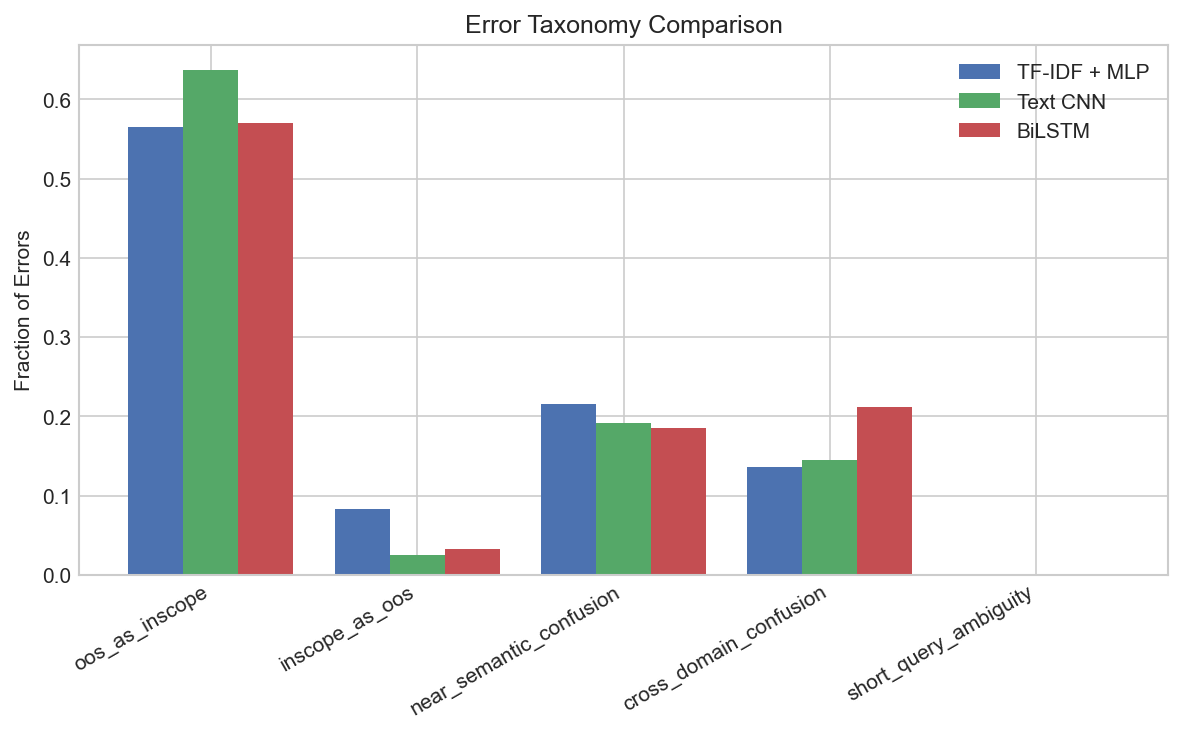
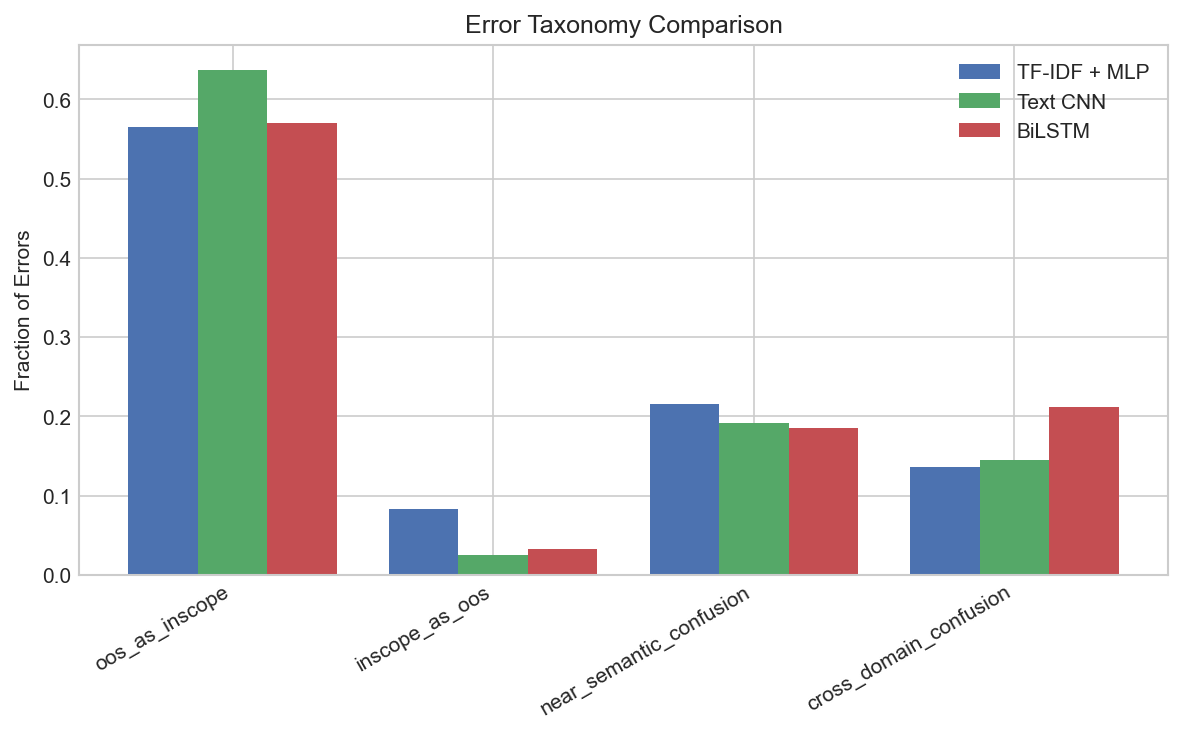
Omit short-query ambiguity from taxonomy comparison figure
Hide the short-query ambiguity bucket from the grouped taxonomy comparison because it is only tracked as a secondary tag, and add a regression test to keep the plotted categories aligned with the primary-category summary.

diff --git a/tests/test_analysis_pipeline.py b/tests/test_analysis_pipeline.py
@@ -258,6 +258,78 @@ def _patch_for_analysis(tmp_path: Path):
 
 
 # ---------------------------------------------------------------------------
+# TestTaxonomySummaryFigure
+# ---------------------------------------------------------------------------
+
+
+class TestTaxonomySummaryFigure:
+    def test_figure_omits_short_query_ambiguity_bucket(self, tmp_path: Path) -> None:
+        """Keep the taxonomy summary intact while hiding the short-query bar."""
+        from src.analysis.taxonomy import generate_taxonomy_summary
+
+        captured_plot: dict[str, Any] = {}
+        total_count = sum(range(1, len(ErrorCategory) + 1))
+
+        def _model_dir(model_id: ModelID) -> Path:
+            return tmp_path / "outputs" / str(model_id)
+
+        def _capture_plot(
+            group_labels: list[str],
+            series: dict[str, list[float]],
+            ylabel: str,
+            title: str,
+            out_path: Path,
+            **_: Any,
+        ) -> None:
+            captured_plot["group_labels"] = list(group_labels)
+            captured_plot["series"] = {label: list(values) for label, values in series.items()}
+            captured_plot["ylabel"] = ylabel
+            captured_plot["title"] = title
+            out_path.parent.mkdir(parents=True, exist_ok=True)
+            out_path.write_bytes(b"test-figure")
+
+        per_model_taxonomy: dict[str, dict[str, Any]] = {}
+        for model_id in ModelID:
+            categories: dict[ErrorCategory, dict[str, float | int]] = {}
+            for category_index, category in enumerate(ErrorCategory, start=1):
+                categories[category] = {
+                    "count": category_index,
+                    "fraction_of_errors": category_index / total_count,
+                    "fraction_of_test_set": category_index / 100.0,
+                }
+            per_model_taxonomy[str(model_id)] = {"categories": categories}
+
+        patches = [
+            patch("src.analysis.utils.PROJECT_ROOT", tmp_path),
+            patch("src.analysis.utils.SHARED_DIR", tmp_path / "outputs" / "shared"),
+            patch("src.analysis.utils.model_output_dir", side_effect=_model_dir),
+            patch("src.analysis.taxonomy.plot_grouped_bar", side_effect=_capture_plot),
+        ]
+        for active_patch in patches:
+            active_patch.start()
+        try:
+            generate_taxonomy_summary(list(ModelID), per_model_taxonomy)
+        finally:
+            for active_patch in patches:
+                active_patch.stop()
+
+        expected_group_labels = [
+            category.value for category in ErrorCategory if category != ErrorCategory.SHORT_QUERY_AMBIGUITY
+        ]
+        assert captured_plot["group_labels"] == expected_group_labels
+        assert captured_plot["ylabel"] == "Fraction of Errors"
+        assert captured_plot["title"] == "Error Taxonomy Comparison"
+        for values in captured_plot["series"].values():
+            assert len(values) == len(expected_group_labels)
+
+        summary_path = tmp_path / "outputs" / "shared" / "analysis" / ERROR_TAXONOMY_SUMMARY_FILENAME
+        summary = json.loads(summary_path.read_text())
+        for row in summary["rows"]:
+            assert "short_query_ambiguity_count" in row
+            assert "short_query_ambiguity_fraction" in row
+
+
+# ---------------------------------------------------------------------------
 # TestLengthBucketing
 # ---------------------------------------------------------------------------
 

diff --git a/src/analysis/taxonomy.py b/src/analysis/taxonomy.py
@@ -33,6 +33,10 @@ from src.report_figure_generation import FigureRecord
 
 logger = logging.getLogger(__name__)
 
+_FIGURE_ERROR_CATEGORIES: tuple[ErrorCategory, ...] = tuple(
+    category for category in ErrorCategory if category != ErrorCategory.SHORT_QUERY_AMBIGUITY
+)
+
 
 # ---------------------------------------------------------------------------
 # Single-example classification
@@ -178,12 +182,13 @@ def generate_taxonomy_summary(
     write_json(shared_dir / ERROR_TAXONOMY_SUMMARY_FILENAME, summary)
     logger.info("Saved: %s", shared_dir / ERROR_TAXONOMY_SUMMARY_FILENAME)
 
-    # Grouped bar chart
-    group_labels = [cat.value for cat in ErrorCategory]
+    # ``short_query_ambiguity`` is recorded only as a secondary tag in practice,
+    # so omit it from the primary-category comparison figure.
+    group_labels = [cat.value for cat in _FIGURE_ERROR_CATEGORIES]
     series: dict[str, list[float]] = {}
     for mid in model_ids:
         tax = per_model_taxonomy[str(mid)]
-        series[mid.display_name] = [tax["categories"][cat]["fraction_of_errors"] for cat in ErrorCategory]
+        series[mid.display_name] = [tax["categories"][cat]["fraction_of_errors"] for cat in _FIGURE_ERROR_CATEGORIES]
 
     fig_path = shared_dir / ERROR_TAXONOMY_COMPARISON_FILENAME
     plot_grouped_bar(
